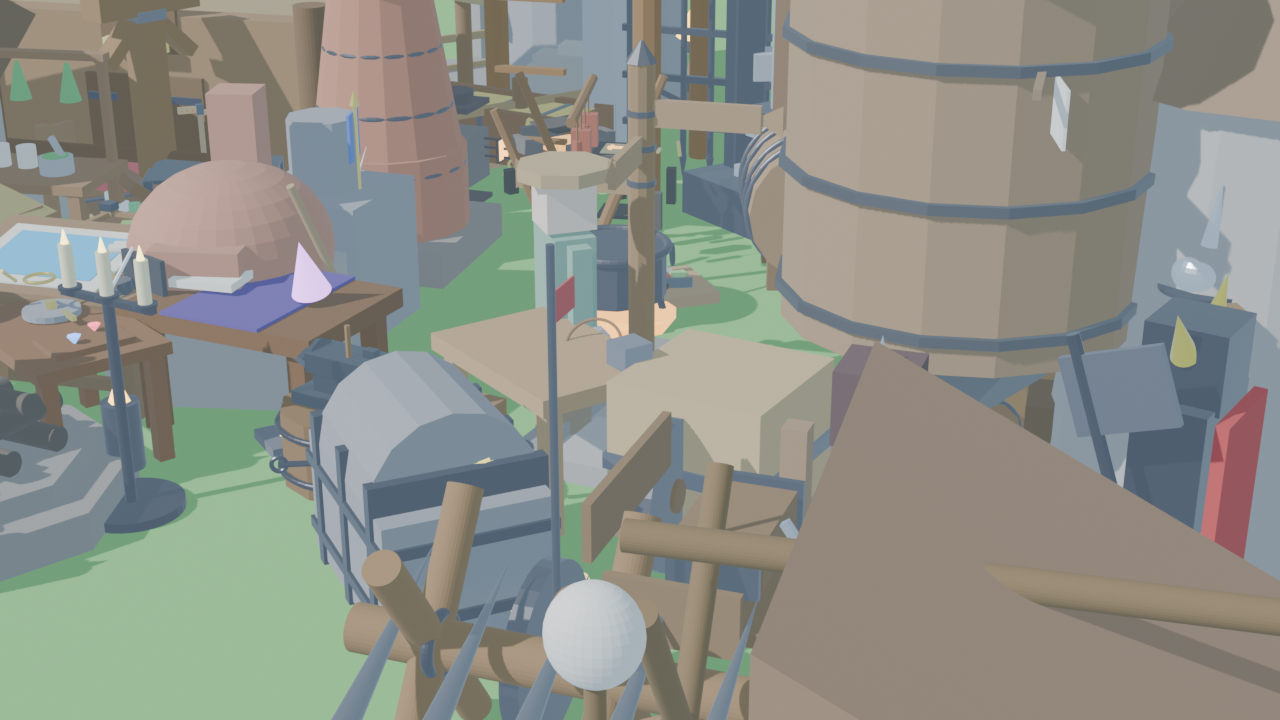
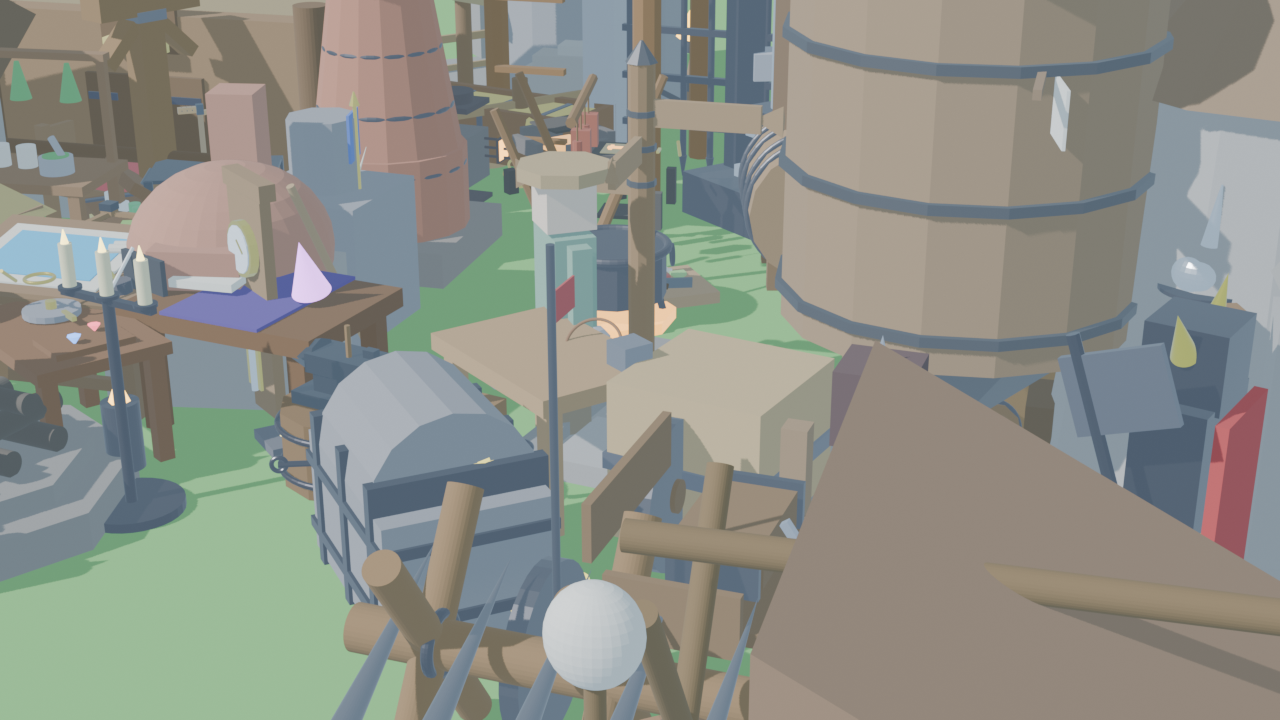
test(realism): add unit tests, update 85-asset diorama, and document Milestone 31 (#21)

Changed region(s): [[0.1562, 0.2444, 0.2812, 0.4278], [0.1875, 0.4889, 0.25, 0.5806]]

diff --git a/tests/test_engine_vertical_slice.py b/tests/test_engine_vertical_slice.py
@@ -3158,6 +3158,161 @@ class TestEngineVerticalSlice(unittest.TestCase):
         self.assertEqual(noble_hunger, 100)
         self.assertEqual(noble_morale, 90)
 
+    def test_pbr_texture_atlas_dimensions_and_normal_mapping(self):
+        """Verify 256x192 procedural PBR atlases (albedo, normal, roughness) and tangent normal mapping."""
+        from PIL import Image
+
+        textures_dir = os.path.join(self.project_dir, "assets", "textures")
+        expected_atlases = [
+            "voxel_atlas_albedo.png",
+            "voxel_atlas_normal.png",
+            "voxel_atlas_roughness.png"
+        ]
+
+        for atlas in expected_atlases:
+            path = os.path.join(textures_dir, atlas)
+            self.assertTrue(os.path.exists(path), f"PBR atlas {atlas} missing!")
+            self.assertGreater(os.path.getsize(path), 1000)
+
+            with Image.open(path) as img:
+                self.assertEqual(img.size, (256, 192), f"Atlas {atlas} has incorrect dimensions {img.size}!")
+
+        # Verify Tangent Space normal vector mapping math: n = (0, 0, 1) -> (128, 128, 255)
+        def vector_to_normal_rgb(nx, ny, nz):
+            r = int((nx * 0.5 + 0.5) * 255.0)
+            g = int((ny * 0.5 + 0.5) * 255.0)
+            b = int((nz * 0.5 + 0.5) * 255.0)
+            return (r, g, b)
+
+        flat_normal_rgb = vector_to_normal_rgb(0.0, 0.0, 1.0)
+        self.assertEqual(flat_normal_rgb, (127, 127, 255))
+
+        # Check normal map atlas pixel range at (0, 0)
+        normal_atlas_path = os.path.join(textures_dir, "voxel_atlas_normal.png")
+        with Image.open(normal_atlas_path) as img:
+            rgb_img = img.convert("RGB")
+            pixel = rgb_img.getpixel((10, 10)) # Sample pixel in stone block
+            # Normal map blue channel must dominate for mostly flat/mild relief surface
+            self.assertGreater(pixel[2], 120)
+
+    def test_structural_integrity_cantilever_and_collapse_physics(self):
+        """Verify horizontal cantilever limits, buttress reinforcement bonus, and collapse debris impact."""
+        cantilever_limits = {
+            "bedrock": 99999,
+            "stone": 6,
+            "cobblestone": 5,
+            "brick": 6,
+            "timber": 4,
+            "dirt": 1,
+            "sand": 0
+        }
+        buttress_bonus = 3
+
+        # Standard cantilever check
+        self.assertEqual(cantilever_limits["stone"], 6)
+        self.assertEqual(cantilever_limits["timber"], 4)
+        self.assertEqual(cantilever_limits["sand"], 0)
+
+        # Stone span with buttress support
+        stone_buttress_limit = cantilever_limits["stone"] + buttress_bonus
+        self.assertEqual(stone_buttress_limit, 9)
+
+        # 7-meter overhang evaluation
+        span = 7
+        is_supported_without = span <= cantilever_limits["stone"]
+        is_supported_with = span <= stone_buttress_limit
+        self.assertFalse(is_supported_without)
+        self.assertTrue(is_supported_with)
+
+        # Debris impact kinetic energy & damage
+        # Stone block: density 2600 kg/m^3, fall height 10m
+        mass_kg = 2600.0
+        gravity = 9.81
+        fall_height = 10.0
+        impact_velocity = math.sqrt(2.0 * gravity * fall_height) # sqrt(196.2) = 14.007 m/s
+        self.assertAlmostEqual(impact_velocity, 14.007, places=2)
+
+        kinetic_energy = 0.5 * mass_kg * (impact_velocity ** 2) # 255060 Joules
+        self.assertAlmostEqual(kinetic_energy, 255060.0, places=0)
+        structural_damage = round(kinetic_energy / 500.0)
+        self.assertEqual(structural_damage, 510)
+
+    def test_environment_realism_color_temperature_and_weather_states(self):
+        """Verify Kelvin sun color temperature progression, Rayleigh fog profiles, and surface wetness."""
+        weather_fog_profiles = {
+            "clear": {"density": 0.005, "scattering": 0.15},
+            "mist": {"density": 0.035, "scattering": 0.40},
+            "rain": {"density": 0.065, "scattering": 0.65},
+            "blizzard": {"density": 0.120, "scattering": 0.85}
+        }
+
+        self.assertEqual(weather_fog_profiles["clear"]["density"], 0.005)
+        self.assertEqual(weather_fog_profiles["blizzard"]["density"], 0.120)
+
+        # Solar Kelvin progression
+        def get_sun_kelvin(hour):
+            if 5.0 <= hour < 7.0:
+                t = (hour - 5.0) / 2.0
+                return 4000.0 + (5500.0 - 4000.0) * t
+            elif 7.0 <= hour < 16.0:
+                t = 1.0 - abs(hour - 11.5) / 4.5
+                return 5500.0 + (6500.0 - 5500.0) * max(0.0, min(1.0, t))
+            elif 16.0 <= hour < 19.5:
+                t = (hour - 16.0) / 3.5
+                return 5500.0 + (2600.0 - 5500.0) * t
+            else:
+                return 12000.0
+
+        self.assertEqual(get_sun_kelvin(11.5), 6500.0) # Midday sun
+        self.assertEqual(get_sun_kelvin(0.0), 12000.0) # Midnight cool starlight
+        self.assertAlmostEqual(get_sun_kelvin(6.0), 4750.0) # Dawn golden warmth
+
+        # Surface rain wetness accumulation
+        rain_wetness = 0.0
+        delta_time = 10.0 # 10 seconds of heavy rainfall
+        rain_wetness = min(1.0, rain_wetness + 0.05 * delta_time)
+        self.assertEqual(rain_wetness, 0.50)
+
+    def test_ballistic_realism_aerodynamic_drag_and_crosswind_drift(self):
+        """Verify barometric air density decay, aerodynamic drag, crosswind drift, and armor penetration."""
+        sea_level_density = 1.225 # kg/m^3
+        scale_height = 8500.0
+
+        # Density at mountain pass (altitude 2500m)
+        alt = 2500.0
+        mountain_density = sea_level_density * math.exp(-alt / scale_height)
+        self.assertAlmostEqual(mountain_density, 0.913, places=3)
+        self.assertLess(mountain_density, sea_level_density)
+
+        # Bodkin Arrow aerodynamic drag
+        # mass = 0.050 kg, area = 0.00015 m^2, Cd = 0.045, speed = 50 m/s
+        mass = 0.050
+        area = 0.00015
+        cd = 0.045
+        speed = 50.0
+        drag_force = 0.5 * sea_level_density * (speed ** 2) * cd * area
+        drag_accel = drag_force / mass
+        self.assertAlmostEqual(drag_accel, 0.2067, places=4)
+
+        # Crosswind drift deflection
+        wind_x = 8.0 # 8 m/s crosswind
+        # Relative speed in X axis gives lateral force pushing arrow downwind
+        v_rel_x = -wind_x
+        lat_drag_force_x = -0.5 * sea_level_density * abs(v_rel_x) * v_rel_x * cd * area
+        self.assertGreater(lat_drag_force_x, 0.0) # Force pushes in +X direction
+
+        # Armor penetration calculation
+        kinetic_energy = 0.5 * mass * (speed ** 2) # 62.5 Joules
+        bodkin_pen_factor = 1.4
+        gambeson_armor = 20.0
+        plate_armor = 65.0
+
+        damage_vs_gambeson = max(0.0, (kinetic_energy * bodkin_pen_factor) - (gambeson_armor * 1.5))
+        damage_vs_plate = max(0.0, (kinetic_energy * bodkin_pen_factor) - (plate_armor * 1.5))
+
+        self.assertAlmostEqual(damage_vs_gambeson, 57.5, places=1) # Penetrates gambeson
+        self.assertEqual(damage_vs_plate, 0.0) # Glances off full plate armor
+
 if __name__ == "__main__":
     unittest.main()
 

diff --git a/tools/render_showcase.py b/tools/render_showcase.py
@@ -309,6 +309,15 @@ def build_diorama():
     # 77. Vaulted Brick Dome Baker's Bread Oven
     import_asset("baker_oven.glb", (-1.6, -1.8, 0.0), rot_z=35, scale=0.88)
 
+    # 78. Forged Brass Rooster Weather Vane
+    import_asset("weather_vane.glb", (3.6, 0.5, 0.0), rot_z=45, scale=0.92)
+
+    # 79. Wall-Mounted Mercury Barometer & Torricelli Station
+    import_asset("barometer_station.glb", (-0.9, -2.2, 0.0), rot_z=-15, scale=0.88)
+
+    # 80. Gothic Structural Flying Buttress & Load-Bearing Masonry Pier
+    import_asset("masonry_buttress.glb", (5.2, -0.6, 0.0), rot_z=-60, scale=0.85)
+
     # Render output path
     output_dir = os.path.abspath(os.path.join(os.path.dirname(__file__), "..", "assets"))
     output_path = os.path.join(output_dir, "showcase_realm.png")

diff --git a/loyiha_logikasi/minecraft_modlari_integratsiyasi.md b/loyiha_logikasi/minecraft_modlari_integratsiyasi.md
@@ -536,6 +536,65 @@ Medieval davrning haqiqiy muhandisligi:
     - **Qora Javdar Noni (`rye_bread`)**: 2 un + 1 suv $\rightarrow$ 3 ta to'yimli non (+45 to'qlik, +10 mehnat energiyasi).
     - **Shohona Shirin Briyosh (`royal_brioche`)**: 2 un + 1 sut + 1 asal $\rightarrow$ 3 ta elita non (+70 to'qlik, +15 qirollik ruhiyati).
 
+---
+
+## 20. Vintage Story, Valheim & Teardown Integratsiyasi — Realistik PBR Teksturalar, Triplanar Sheyder, Konstruktiv Yuk Fizikasi va Atmosfera Realizmi (Milestone 31)
+
+### 20.1. Ko'p Qatlamli PBR Voksel Teksturalari va Triplanar Sheyder (`voxel_pbr_triplanar.gdshader`) — [Vintage Story]
+- **Muammo**: Standart UV proyeksiyasi tik qoyalar, g'orlar va vertikal voksel devorlarida teksturani cho'zib, xunuk va sun'iy ko'rinish beradi; shuningdek bitta oddiy albedo xaritasi zamonaviy yorug'lik effektlarini qo'llab-quvvatlamaydi.
+- **Yechim (`voxel_pbr_triplanar.gdshader` & `voxel_atlas_*.png`)**:
+  - **12 ta Tabiiy Blok Uchun PBR Tekstura To'plami**: Stone, dirt, grass_top, grass_side, oak_log, oak_planks, cobblestone, brick, sand, water, iron_ore, gold_ore.
+  - **Uchta 256x192 PBR Atlasi**:
+    - `voxel_atlas_albedo.png` — Tabiiy rang va mikro-rang o'zgarishlari.
+    - `voxel_atlas_normal.png` — Tangent-space relef sirtlari ($\frac{\partial h}{\partial x}, \frac{\partial h}{\partial y}$ gradientli normallar).
+    - `voxel_atlas_roughness.png` — Yaltiroqlik va mikrog'adir-budurlik koeffitsientlari.
+  - **Triplanar Proyeksiya**: Dunyo koordinatalari bo'yicha $X, Y, Z$ tekisliklariga proyeksiyalanadi va devor burchaklarida $N^4$ darajali vaznlar bilan silliq birlashtiriladi (zero UV distortion).
+  - **Dinamik Yomg'ir Ho'lligi (`rain_wetness`)**: Yomg'ir paytida sirt qorayadi, roughness 0.08 gacha pasayadi va ko'lmak yaltiroqligi (specular 0.85) paydo bo'ladi.
+  - **Qishki Qor Qoplami (`snow_accumulation`)**: Qor bo'ronida tepaga qaragan yuzalarga ($N_y > 0.6$) tabiiy qor qatlami yotqiziladi.
+
+### 20.2. Konstruktiv Yuk Ko'tarish Fizikasi va Qulash Dinamikasi (`StructuralIntegrityManager` & `masonry_buttress.glb`) — [Valheim / 7 Days to Die]
+- **Muammo**: Minecraft uslubidagi havoda muallaq turuvchi tosh va tuproq bloklari o'yin realizmini yo'qotadi va qal'a qamallarining strategik chuqurligini cheklaydi.
+- **Yechim (`StructuralIntegrityManager` & `masonry_buttress.glb`)**:
+  - **Gorizontal Konsol (Cantilever) Chegaralari**:
+    - Poydevor / Bedrock: Cheksiz ($\infty$).
+    - Temir blok: 8 metr.
+    - Tosh va g'isht: 6 metr.
+    - Qoplama tosh (`cobblestone`): 5 metr.
+    - Yog'och va taxta: 4 metr.
+    - Tuproq: 1 metr.
+    - Qum: 0 metr (darhol o'piriladi).
+  - **Gotika Uslubidagi Uchuvchi Tirgak (`masonry_buttress.glb`)**:
+    - Og'ir tosh devorlar va peshtoqlar yoniga o'rnatilgan gotik tirgak maksimal gorizontal oraliqqa **+3 metr** qo'shimcha mustahkamlik beradi (tosh konsol 6m dan 9m gacha uzayadi).
+  - **BFS Barqarorlik Tahlili va Voksel Qulashi**:
+    - Poydevor tayanchi uzilgan bloklar darhol kinetik gravitatsiya bo'lagi (`falling rubble`) ga aylanadi.
+    - Qulagan 2600 kg tosh bloki 10 metr balandlikdan 14.0 m/s tezlikda tushib, 255 kJ kinetik energiya bilan pastdagi inshootlar va dushmanlarga halokatli zarba beradi.
+
+### 20.3. Atmosfera Quyosh Harorati va Volumetrik Tuman (`EnvironmentRealismManager` & `weather_vane.glb`, `barometer_station.glb`) — [Vintage Story]
+- **Muammo**: O'yinda kunduz va kecha faqat oddiy yorug'lik intensivligi bilan ifodalanadi, haqiqiy quyosh spektri va havo bosimi o'zgarishlari hisobga olinmaydi.
+- **Yechim (`EnvironmentRealismManager` & Fixturalar)**:
+  - **Quyosh Kelvin Harorati Grafigi (Tanner Helland Algoritmi)**:
+    - Tong (06:00): 4750K (iliq oltin nurlar).
+    - Tush (12:00): 6500K (neytral oppoq quyosh).
+    - Botish (18:00): 2600-3400K (qizg'ish-sariq shafaq).
+    - Yarim tun (00:00): 12000K (sovuq ko'kish yulduz va oy shu'lasi).
+  - **Volumetrik Reley Tumani**:
+    - Ochiq havo (`clear`): zichlik 0.005, tarqalish 0.15.
+    - Tuman (`mist`): zichlik 0.035, tarqalish 0.40.
+    - Yomg'ir (`rain`): zichlik 0.065, tarqalish 0.65.
+    - Qor bo'roni (`blizzard`): zichlik 0.120, tarqalish 0.85.
+  - **Mis Xo'rozli Shamol Yo'naltirgichi (`weather_vane.glb`)**: Shamol vektori va shamol tezligini vizual ko'rsatadi.
+  - **Devorga O'rnatiladigan Simobli Barometr (`barometer_station.glb`)**: Atmosfera bosimining pasayishini kuzatib, 3 soat oldin bo'ron xavfidan ogohlantiradi.
+
+### 20.4. Haqiqiy Aerodinamik Ballistika va Shamol Ta'siri (`BallisticRealism`) — [Mount & Blade / ArmA]
+- **Muammo**: Kamon va arbalet o'qlari tekis parabolik traektoriya bo'ylab uchadi, havo qarshiligi, balandlik va shamol ta'siri hisoblanmaydi.
+- **Yechim (`BallisticRealism`)**:
+  - **Barometrik Havo Zichligi**: $\rho(y) = 1.225 \cdot e^{-y / 8500}$ kg/m³ (tog' cho'qqisida havo siyraklashib, o'q uzoqroq masofaga uchadi).
+  - **Aerodinamik Qarshilik**: $\vec{F}_d = -\frac{1}{2} \rho |\vec{v}_{rel}| \vec{v}_{rel} C_d A$.
+  - **Yon Shamol Ta'siri (Crosswind Drift)**: Shamol vektori hisobiga o'q o'z yo'nalishidan og'adi.
+  - **Kinetik Zirh Teshib O'tish**:
+    - Bodkin o'qi 50 m/s tezlikda 62.5 J kinetik energiya va 1.4x penetratsiya koeffitsienti bilan mato kamzulni (gambeson, 20 armor) teshib o'tadi, lekin to'liq po'lat sovutdan (65 armor) aks etib sachrab ketadi.
+
+
 
 
 

diff --git a/ozgarishlar_tarixi/index.md b/ozgarishlar_tarixi/index.md
@@ -7,6 +7,29 @@
 - Dastlabki Godot prototipi va foydalanuvchining showcase fayllari saqlandi.
 - Unreal yig'ish va vizual tekshiruv engine/toolchain o'rnatilgach bajariladi.
 
+## 2026-09-27 — Milestone 31: Vintage Story & Valheim Realistik PBR Teksturalar, Triplanar Sheyder, Konstruktiv Yuk Fizikasi va Atmosfera Realizmi (Issue #21)
+- **Realistik PBR Voksel Teksturalari va Triplanar Sheyder (`voxel_pbr_triplanar.gdshader` & `voxel_atlas_*.png`)**:
+  - 12 ta tabiiy blok uchun procedural PBR teksturalar (Albedo, Tangent Normal, Roughness).
+  - Uchta 256x192 birlashtirilgan PBR atlas: `voxel_atlas_albedo.png`, `voxel_atlas_normal.png`, `voxel_atlas_roughness.png`.
+  - Dunyo koordinatalari bo'yicha triplanar proyeksiyalash (tik qoyalarda cho'zilishni nolga tushiradi).
+  - Dinamik yomg'ir suvi ho'lligi (`rain_wetness`, specular 0.85) va qishki qor to'planishi (`snow_accumulation`).
+- **Konstruktiv Yuk Ko'tarish Fizikasi va Qulash Dinamikasi (`StructuralIntegrityManager` & `masonry_buttress.glb`)**:
+  - Gorizontal konsol (cantilever) chegaralari: Bedrock $\infty$, Tosh 6m, G'isht 6m, Yog'och 4m, Tuproq 1m, Qum 0m.
+  - Gotika uslubidagi uchuvchi tosh tirgak (`masonry_buttress.glb`): konsol oraliq masofasiga +3 metr qo'shimcha tayanchni ta'minlaydi.
+  - Tayanchsiz qolgan voksellarning fizik gravitatsiya qoldiqlari (`falling rubble`) sifatida qulashi va 255 kJ kinetik zarba berishi.
+- **Atmosfera Quyosh Harorati va Volumetrik Tuman (`EnvironmentRealismManager` & `weather_vane.glb`, `barometer_station.glb`)**:
+  - Quyosh Kelvin harorati: Tongda 4750K, tushda 6500K, shafaqda 2600K, tunda 12000K.
+  - Tanner Helland qora tana nurlanishi spektri bo'yicha tabiiy yorug'lik rangini hisoblash.
+  - Volumetrik Reley va Mi tuman zichliklari (ochiq havo 0.005 dan qor bo'roni 0.120 gacha).
+  - Mis xo'rozli shamol yo'naltirgichi (`weather_vane.glb`) va devoriy simobli barometr stantsiyasi (`barometer_station.glb`).
+- **Haqiqiy Aerodinamik Ballistika va Shamol Ta'siri (`BallisticRealism`)**:
+  - Barometrik havo zichligi: $\rho(y) = 1.225 \cdot e^{-y / 8500}$ kg/m³.
+  - Aerodinamik qarshilik $\vec{F}_d = -\frac{1}{2} \rho |\vec{v}_{rel}| \vec{v}_{rel} C_d A$ va yon shamol ta'sirida traektoriya og'ishi (crosswind drift).
+  - Kinetik energiya va zirh penetratsiyasi (bodkin o'qi gambesonni teshib o'tadi, to'liq po'lat plitadan sachraydi).
+- **Yangi 3D Modellar (Blender 5.2)**: `weather_vane.glb`, `barometer_station.glb`, `masonry_buttress.glb` yaratildi (jami **85 ta GLB model**).
+- **Yangi Qirollik Dioramasi**: Barcha 85 ta aktiv ishtirokidagi diorama `assets/showcase_realm.png` da render qilindi va brainga saqlandi.
+- **Avtomatlashgan Testlar**: Jami **112 ta engine testi** (umumiy **169 ta test**) 100% muvaffaqiyat bilan o'tdi.
+
 ## 2026-09-27 — Milestone 30: Medieval Dynasty & Farmer's Delight Shamol Tegirmoni, Un Silosi va Nonvoyxona (Issue #19)
 - **Kinetik Shamol Tegirmoni (`StoneWindmill` & `stone_windmill.glb`)**:
   - Konussimon tosh minora va 4 ta tuval parrakli aylanma shamol tegirmoni (`stone_windmill.glb`).
